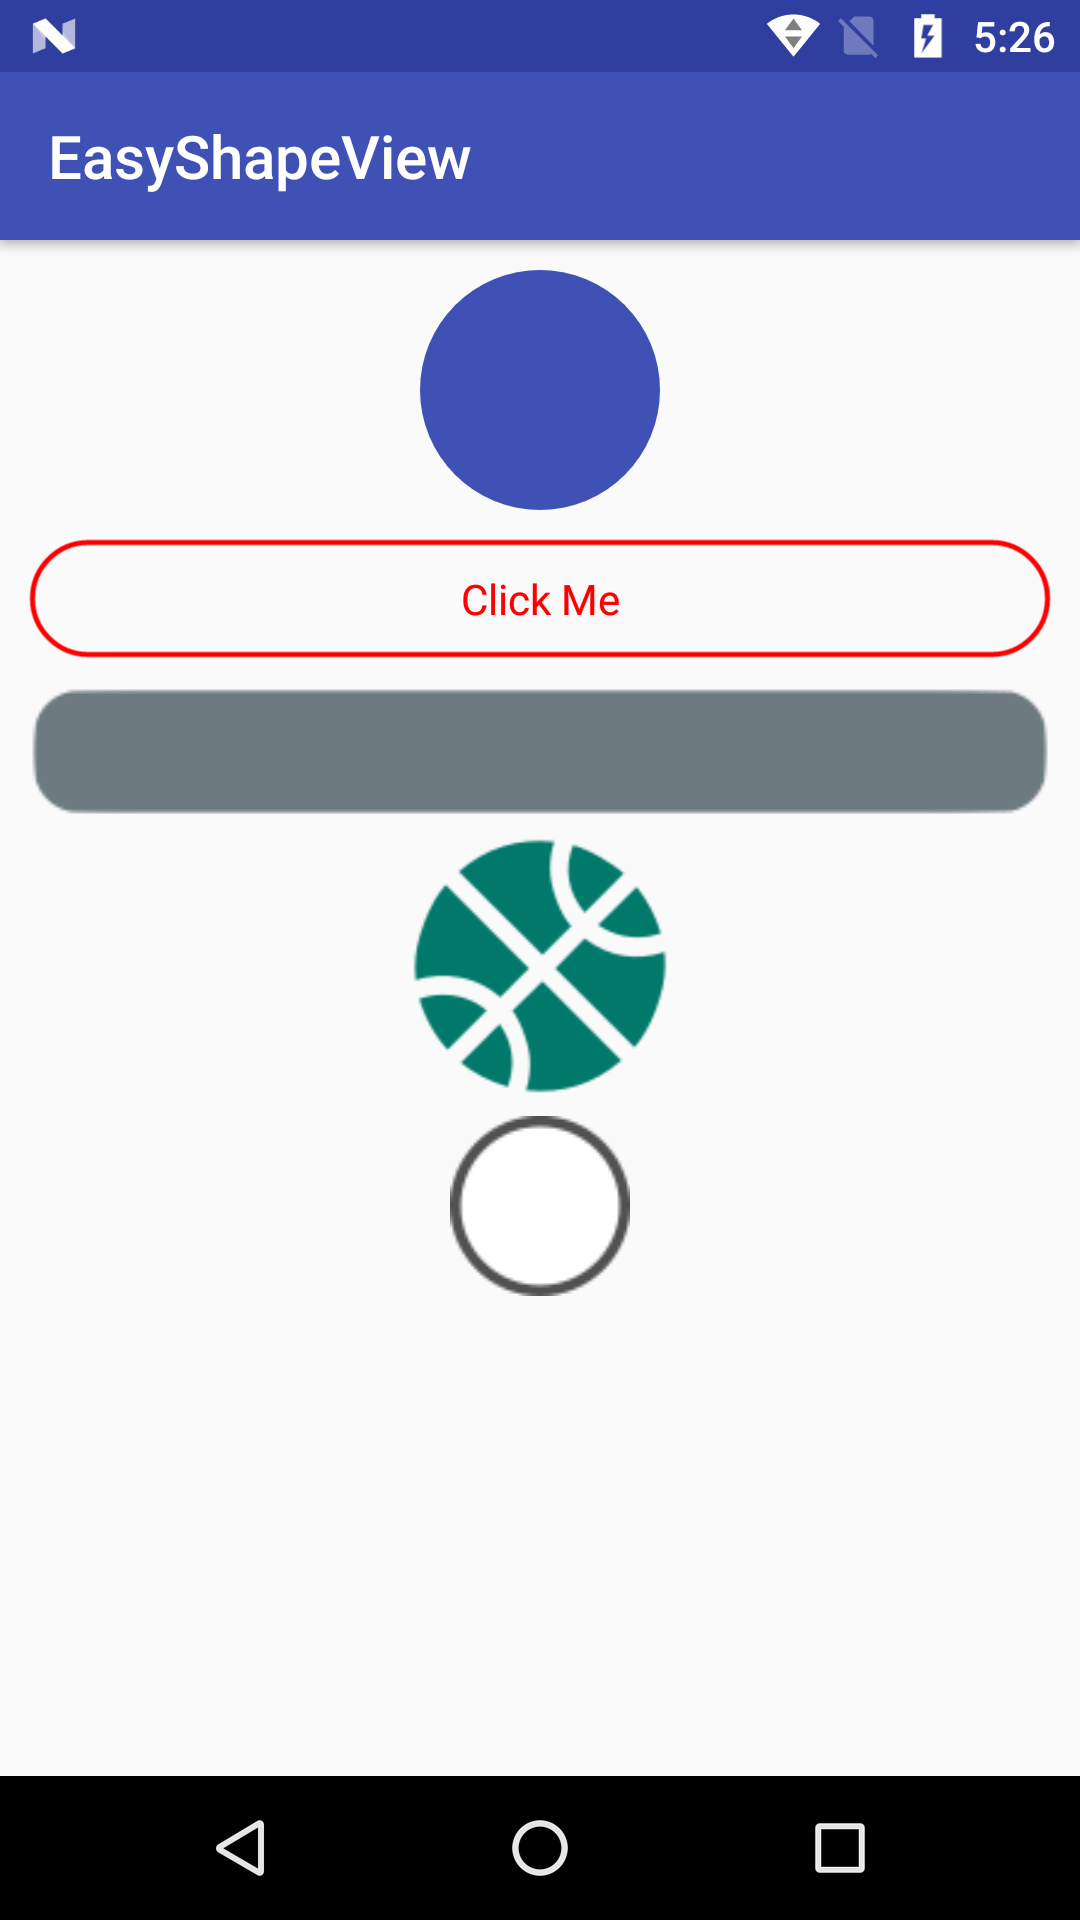
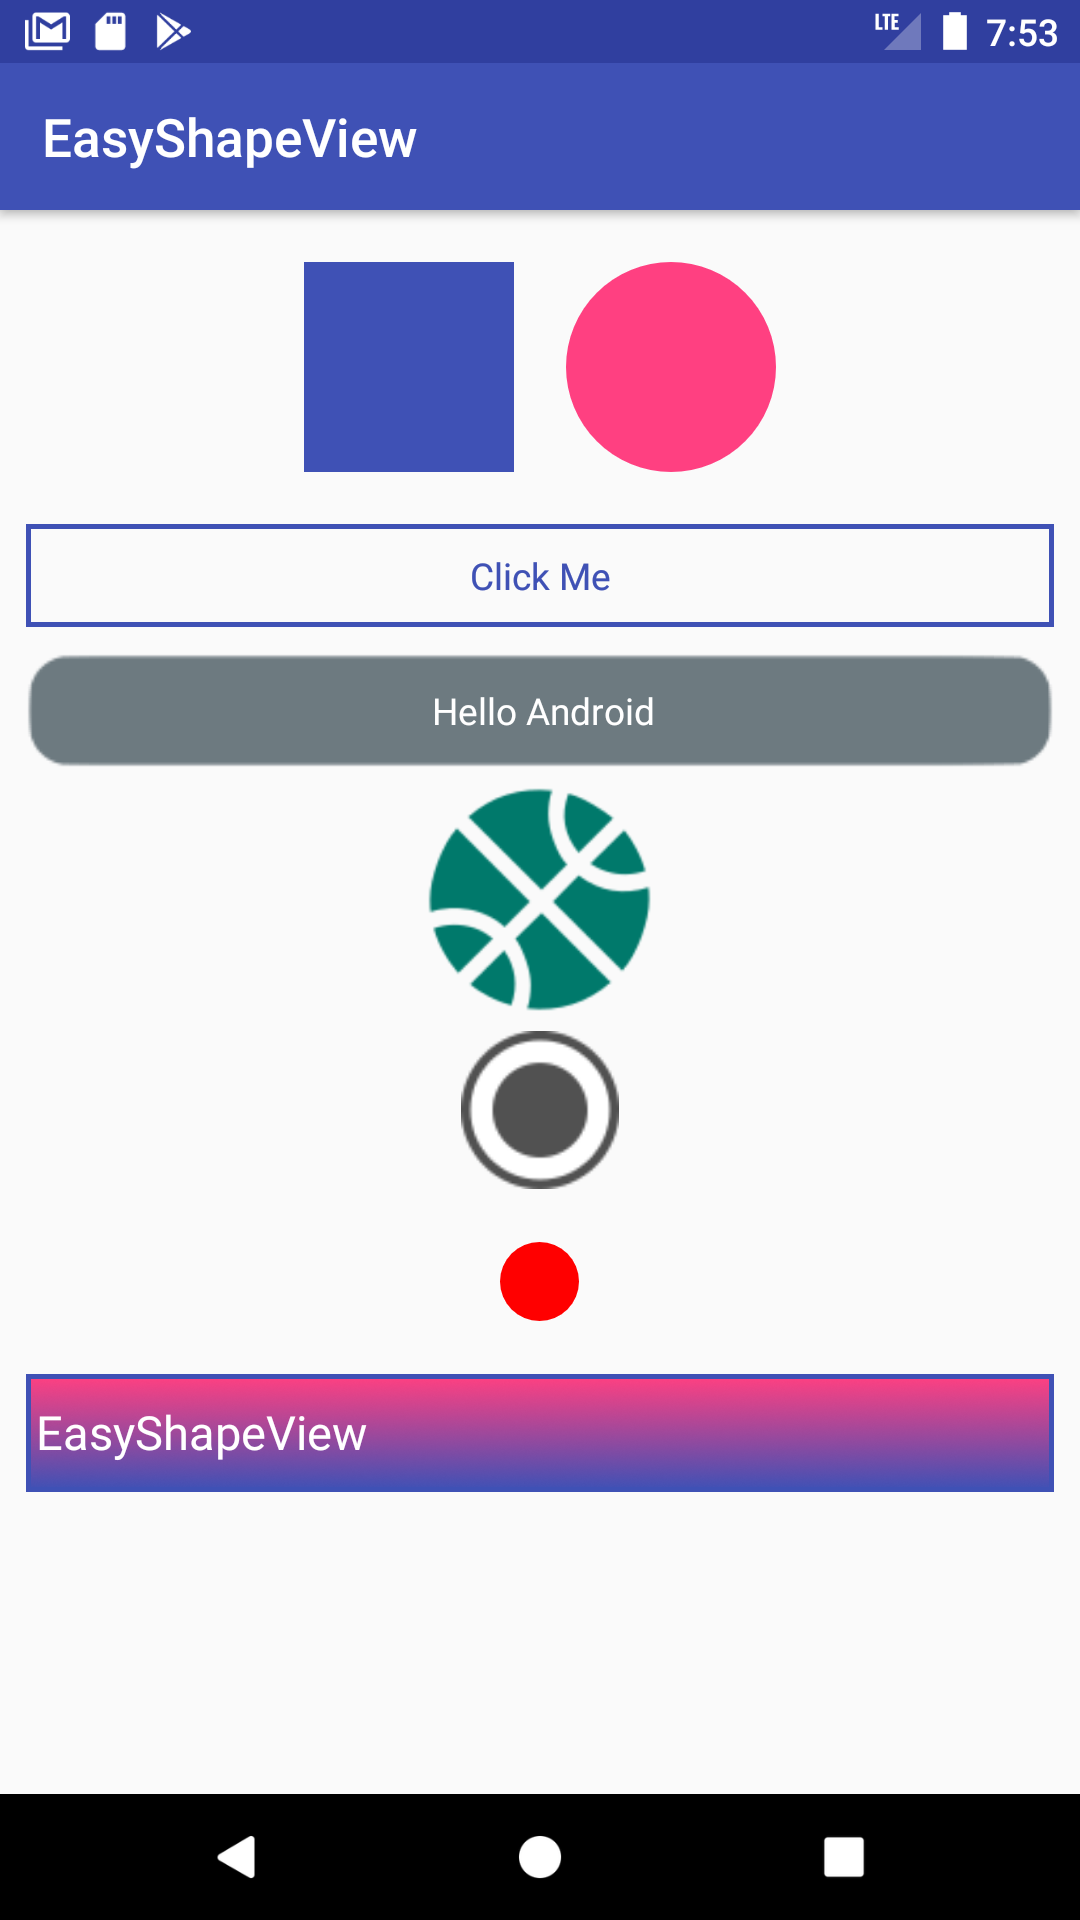
readme updated

diff --git a/library/src/main/java/com/dc/library/DrawableMaker.java b/library/src/main/java/com/dc/library/DrawableMaker.java
@@ -17,14 +17,8 @@ public class DrawableMaker {
   public static final int OVAL = GradientDrawable.OVAL;
   public static final int LINE = GradientDrawable.LINE;
   public static final int RING = GradientDrawable.RING;
-
-
-  private int shape;
-  private float roundedRadius;
-  private int color;
-  private int strokeWidth;
-  private int strokeColor;
   private GradientDrawable drawable;
+
 
   public static DrawableMaker create() {
     return new DrawableMaker(new GradientDrawable());
@@ -34,41 +28,52 @@ public class DrawableMaker {
     return new DrawableMaker(gradientDrawable);
   }
 
-  public static DrawableMaker oval(){
+  public static DrawableMaker oval() {
     return new DrawableMaker(new GradientDrawable()).shape(OVAL);
   }
 
-  public static DrawableMaker rectangle(){
+  public static DrawableMaker rectangle() {
     return new DrawableMaker(new GradientDrawable()).shape(RECT);
   }
 
   public DrawableMaker shape(int shape) {
-    this.shape = shape;
+    drawable.setShape(shape);
     return this;
   }
 
   public DrawableMaker cornerRadius(float roundedRadius) {
-    this.roundedRadius = roundedRadius;
+    drawable.setCornerRadii(new float[]{roundedRadius, roundedRadius, roundedRadius,
+            roundedRadius, roundedRadius, roundedRadius, roundedRadius, roundedRadius});
     return this;
   }
 
+
   public DrawableMaker color(int color) {
-    this.color = color;
+    drawable.setColor(color);
+    return this;
+  }
+
+  public DrawableMaker gradients(int start, int center, int end) {
+    drawable.setColors(new int[]{start, center, end});
+    return this;
+  }
+
+  public DrawableMaker gradients(int start, int end) {
+    drawable.setColors(new int[]{start, end});
+    return this;
+  }
+
+  public DrawableMaker gradientAngle(GradientDrawable.Orientation orientation) {
+    drawable.setOrientation(orientation);
     return this;
   }
 
   public DrawableMaker border(int width, int color) {
-    this.strokeWidth = width;
-    this.strokeColor = color;
+    drawable.setStroke(width, color);
     return this;
   }
 
   public Drawable build() {
-    drawable.setShape(shape);
-    drawable.setColor(color);
-    drawable.setStroke(strokeWidth, strokeColor);
-    drawable.setCornerRadii(new float[]{roundedRadius, roundedRadius, roundedRadius,
-            roundedRadius, roundedRadius, roundedRadius, roundedRadius, roundedRadius});
     return drawable;
   }
 }

diff --git a/library/src/main/java/com/dc/library/DrawableBindingUtils.java b/library/src/main/java/com/dc/library/DrawableBindingUtils.java
@@ -23,7 +23,7 @@ public class DrawableBindingUtils {
     if (disable != null)
       background.addState(new int[]{-android.R.attr.state_enabled}, disable);
     if (focused != null)
-      background.addState(new int[]{-android.R.attr.state_focused}, focused);
+      background.addState(new int[]{android.R.attr.state_focused}, focused);
     if (normal != null)
       background.addState(StateSet.WILD_CARD, normal);
 

diff --git a/README.md b/README.md
@@ -2,102 +2,148 @@
 
 <img alt="Easy Shape View Library" src="https://github.com/mkrupal09/EasyShapeView/blob/master/ss1.png" width = "500" height = "900" hspace="5"/>
 
+- You can directly set disable,normal,pressed background to any view.
+- You can directly set disable,enable,pressed,focused,normal text/hint color to textview
+- You can directly set check,uncheck drawable to checkbox,radiobutton
+- You can set disable,normal,pressed,focused background using DrawableMaker.
+- You can use already created shape drawable and change attributes/properties 
+  i.e if you already have oval/rect shape you can change color,radius,border etc..
+  so make one drawable and use everywhere
+
+Drawable maker properties - make oval,rect shape directly using DrawableMaker.oval()/rectangle()
+all below things using xml
+- You can give shape color
+- You can give border color, border width
+- You can give gradient color, gradient orietation
+- You can give corner radius
+
+
+Pros
+- No need to create drawable files just for color change, border change, and many small changes
+ so you don't have list of same drawables
+- Less boilerplate code
+
+Cons
+- You can't see preview of creating drawables because it's rely on BindingAdapter (Data Binding)
+
+
+
 ```xml
 <?xml version="1.0" encoding="utf-8"?>
- <layout xmlns:android="http://schemas.android.com/apk/res/android"
-     xmlns:bind="http://schemas.android.com/tools">
- 
-     <data>
- 
-         <import type="com.dc.library.DrawableMaker" />
- 
-         <import type="android.graphics.Color" />
-     </data>
- 
-     <ScrollView
-         android:layout_width="match_parent"
-         android:layout_height="wrap_content">
- 
-         <LinearLayout
-             android:layout_width="match_parent"
-             android:layout_height="wrap_content"
-             android:gravity="center_horizontal"
-             android:orientation="vertical"
-             android:padding="10dp">
- 
- 
-             <View
-                 android:id="@+id/tvv"
-                 android:layout_width="80dp"
-                 android:layout_height="80dp"
-                 android:gravity="center"
-                 bind:disableBackground="@{DrawableMaker.create().shape(DrawableMaker.OVAL).color(Color.BLACK).build()}"
-                 bind:normalBackground="@{DrawableMaker.create().shape(DrawableMaker.RECT).color(@color/colorPrimary).build()}"
-                 bind:pressedBackground="@{DrawableMaker.create().shape(DrawableMaker.OVAL).color(Color.GREEN).build()}" />
- 
-             <TextView
-                 android:id="@+id/tvMain"
-                 android:layout_width="match_parent"
-                 android:layout_height="wrap_content"
-                 android:layout_marginTop="10dp"
-                 android:gravity="center"
-                 android:padding="10dp"
-                 android:text="@string/click_me"
-                 bind:disableBackground="@{DrawableMaker.create().shape(DrawableMaker.RECT).color(Color.BLACK).build()}"
-                 bind:disableTextColor="@{Color.BLACK}"
-                 bind:normalBackground="@{DrawableMaker.create().shape(DrawableMaker.RECT).color(Color.RED).border(5,@color/colorPrimary).build()}"
-                 bind:normalTextColor="@{Color.WHITE}"
-                 bind:pressedBackground="@{DrawableMaker.create().shape(DrawableMaker.RECT).cornerRadius(@dimen/space_med).color(Color.GREEN).build()}"
-                 bind:pressedTextColor="@{@color/colorPrimary}" />
- 
- 
-             <TextView
-                 android:id="@+id/tvMain2"
-                 android:layout_width="match_parent"
-                 android:layout_height="wrap_content"
-                 android:layout_marginTop="10dp"
-                 bind:disableBackground="@{@drawable/settings_switch_back_on}"
-                 bind:normalBackground="@{@drawable/settings_switch_back_off}"
-                 bind:pressedBackground="@{@drawable/settings_switch_back_on}" />
- 
- 
-             <ImageView
-                 android:id="@+id/ivMain"
-                 android:layout_width="100dp"
-                 android:layout_height="100dp"
-                 bind:disableSrc="@{@drawable/basketball_unsel}"
-                 bind:normalSrc="@{@drawable/basketball_unsel}"
-                 bind:pressedSrc="@{@drawable/basketball_sel}"
-                 bind:selectedSrc="@{@drawable/basketball_sel}" />
- 
-             <CheckBox
-                 android:layout_width="wrap_content"
-                 android:layout_height="wrap_content"
-                 bind:check="@{@drawable/img_radiobtn_h}"
-                 bind:uncheck="@{@drawable/img_radiobtn}" />
- 
-             <View
-                 android:id="@+id/viewFromDrawable"
-                 android:layout_width="30dp"
-                 android:layout_height="30dp" />
- 
-             <EditText
-                 android:layout_width="match_parent"
-                 android:layout_height="wrap_content"
-                 android:hint="@string/app_name" />
- 
-             <android.support.v7.widget.AppCompatEditText
-                 android:layout_width="match_parent"
-                 android:layout_height="wrap_content"
-                 android:hint="@string/app_name"
-                 bind:focusedBackground="@{DrawableMaker.rectangle().cornerRadius(@dimen/space_med).color(Color.GREEN).build()}"
-                 bind:focusedHintTextColor="@{Color.WHITE}"
-                 bind:focusedTextColor="@{Color.WHITE}"
-                 bind:normalBackground="@{DrawableMaker.rectangle().color(Color.RED).border(5,@color/colorPrimary).build()}"
-                 bind:normalHintTextColor="@{Color.BLACK}"
-                 bind:normalTextColor="@{Color.BLACK}" />
- 
-         </LinearLayout>
-     </ScrollView>
- </layout>
+<layout xmlns:android="http://schemas.android.com/apk/res/android"
+    xmlns:bind="http://schemas.android.com/tools">
+
+    <data>
+
+        <import type="com.dc.library.DrawableMaker" />
+
+        <import type="android.graphics.drawable.GradientDrawable.Orientation" />
+
+        <import type="android.graphics.drawable.GradientDrawable" />
+
+        <import type="android.graphics.Color" />
+    </data>
+
+    <ScrollView
+        android:layout_width="match_parent"
+        android:layout_height="wrap_content">
+
+        <LinearLayout
+            android:layout_width="match_parent"
+            android:layout_height="wrap_content"
+            android:gravity="center_horizontal"
+            android:orientation="vertical"
+            android:padding="10dp">
+
+            <LinearLayout
+                android:layout_width="match_parent"
+                android:layout_height="wrap_content"
+                android:gravity="center"
+                android:orientation="horizontal">
+
+                <View
+                    android:layout_width="80dp"
+                    android:layout_height="80dp"
+                    android:layout_margin="10dp"
+                    android:gravity="center"
+                    bind:disableBackground="@{DrawableMaker.oval().color(Color.BLACK).build()}"
+                    bind:normalBackground="@{DrawableMaker.rectangle().color(@color/colorPrimary).build()}"
+                    bind:pressedBackground="@{DrawableMaker.oval().color(Color.GREEN).build()}" />
+
+                <View
+                    android:layout_width="80dp"
+                    android:layout_height="80dp"
+                    android:layout_margin="10dp"
+                    android:gravity="center"
+                    bind:disableBackground="@{DrawableMaker.oval().color(Color.BLACK).build()}"
+                    bind:normalBackground="@{DrawableMaker.oval().color(@color/colorAccent).build()}"
+                    bind:pressedBackground="@{DrawableMaker.oval().color(Color.GREEN).build()}" />
+            </LinearLayout>
+
+            <TextView
+                android:id="@+id/tvMain"
+                android:layout_width="match_parent"
+                android:layout_height="wrap_content"
+                android:layout_marginTop="10dp"
+                android:gravity="center"
+                android:padding="10dp"
+                android:text="@string/click_me"
+                bind:disableBackground="@{DrawableMaker.rectangle().color(Color.BLACK).build()}"
+                bind:disableTextColor="@{Color.BLACK}"
+                bind:normalBackground="@{DrawableMaker.rectangle().border(5,@color/colorPrimary).build()}"
+                bind:normalTextColor="@{@color/colorPrimary}"
+                bind:pressedBackground="@{DrawableMaker.rectangle().border(5,@color/colorPrimary).color(Color.GREEN).build()}"
+                bind:pressedTextColor="@{@color/colorPrimary}" />
+
+
+            <TextView
+                android:id="@+id/tvMain2"
+                android:layout_width="match_parent"
+                android:layout_height="wrap_content"
+                android:layout_marginTop="10dp"
+                android:gravity="center"
+                android:text="@string/hello_android"
+                android:textColor="@android:color/white"
+                bind:disableBackground="@{@drawable/settings_switch_back_on}"
+                bind:normalBackground="@{@drawable/settings_switch_back_off}"
+                bind:pressedBackground="@{@drawable/settings_switch_back_on}" />
+
+
+            <ImageView
+                android:id="@+id/ivMain"
+                android:layout_width="100dp"
+                android:layout_height="100dp"
+                bind:disableSrc="@{@drawable/basketball_unsel}"
+                bind:normalSrc="@{@drawable/basketball_unsel}"
+                bind:pressedSrc="@{@drawable/basketball_sel}"
+                bind:selectedSrc="@{@drawable/basketball_sel}" />
+
+            <CheckBox
+                android:layout_width="wrap_content"
+                android:layout_height="wrap_content"
+                bind:check="@{@drawable/img_radiobtn_h}"
+                bind:uncheck="@{@drawable/img_radiobtn}" />
+
+            <View
+                android:id="@+id/viewFromDrawable"
+                android:layout_width="30dp"
+                android:layout_height="30dp"
+                android:layout_marginTop="20dp"
+                android:layout_marginBottom="20dp" />
+
+
+            <android.support.v7.widget.AppCompatEditText
+                android:layout_width="match_parent"
+                android:layout_height="wrap_content"
+                android:hint="@string/app_name"
+                bind:focusedBackground="@{DrawableMaker.rectangle().cornerRadius(@dimen/space_med).color(Color.GREEN).build()}"
+                bind:focusedHintTextColor="@{Color.WHITE}"
+                bind:focusedTextColor="@{Color.WHITE}"
+                bind:normalBackground="@{DrawableMaker.rectangle().color(Color.RED).border(5,@color/colorPrimary).gradients(@color/colorPrimary,@color/colorAccent).gradientAngle(GradientDrawable.Orientation.BOTTOM_TOP).build()}"
+                bind:normalHintTextColor="@{Color.WHITE}"
+                bind:normalTextColor="@{Color.WHITE}" />
+
+        </LinearLayout>
+    </ScrollView>
+</layout>
 ```
